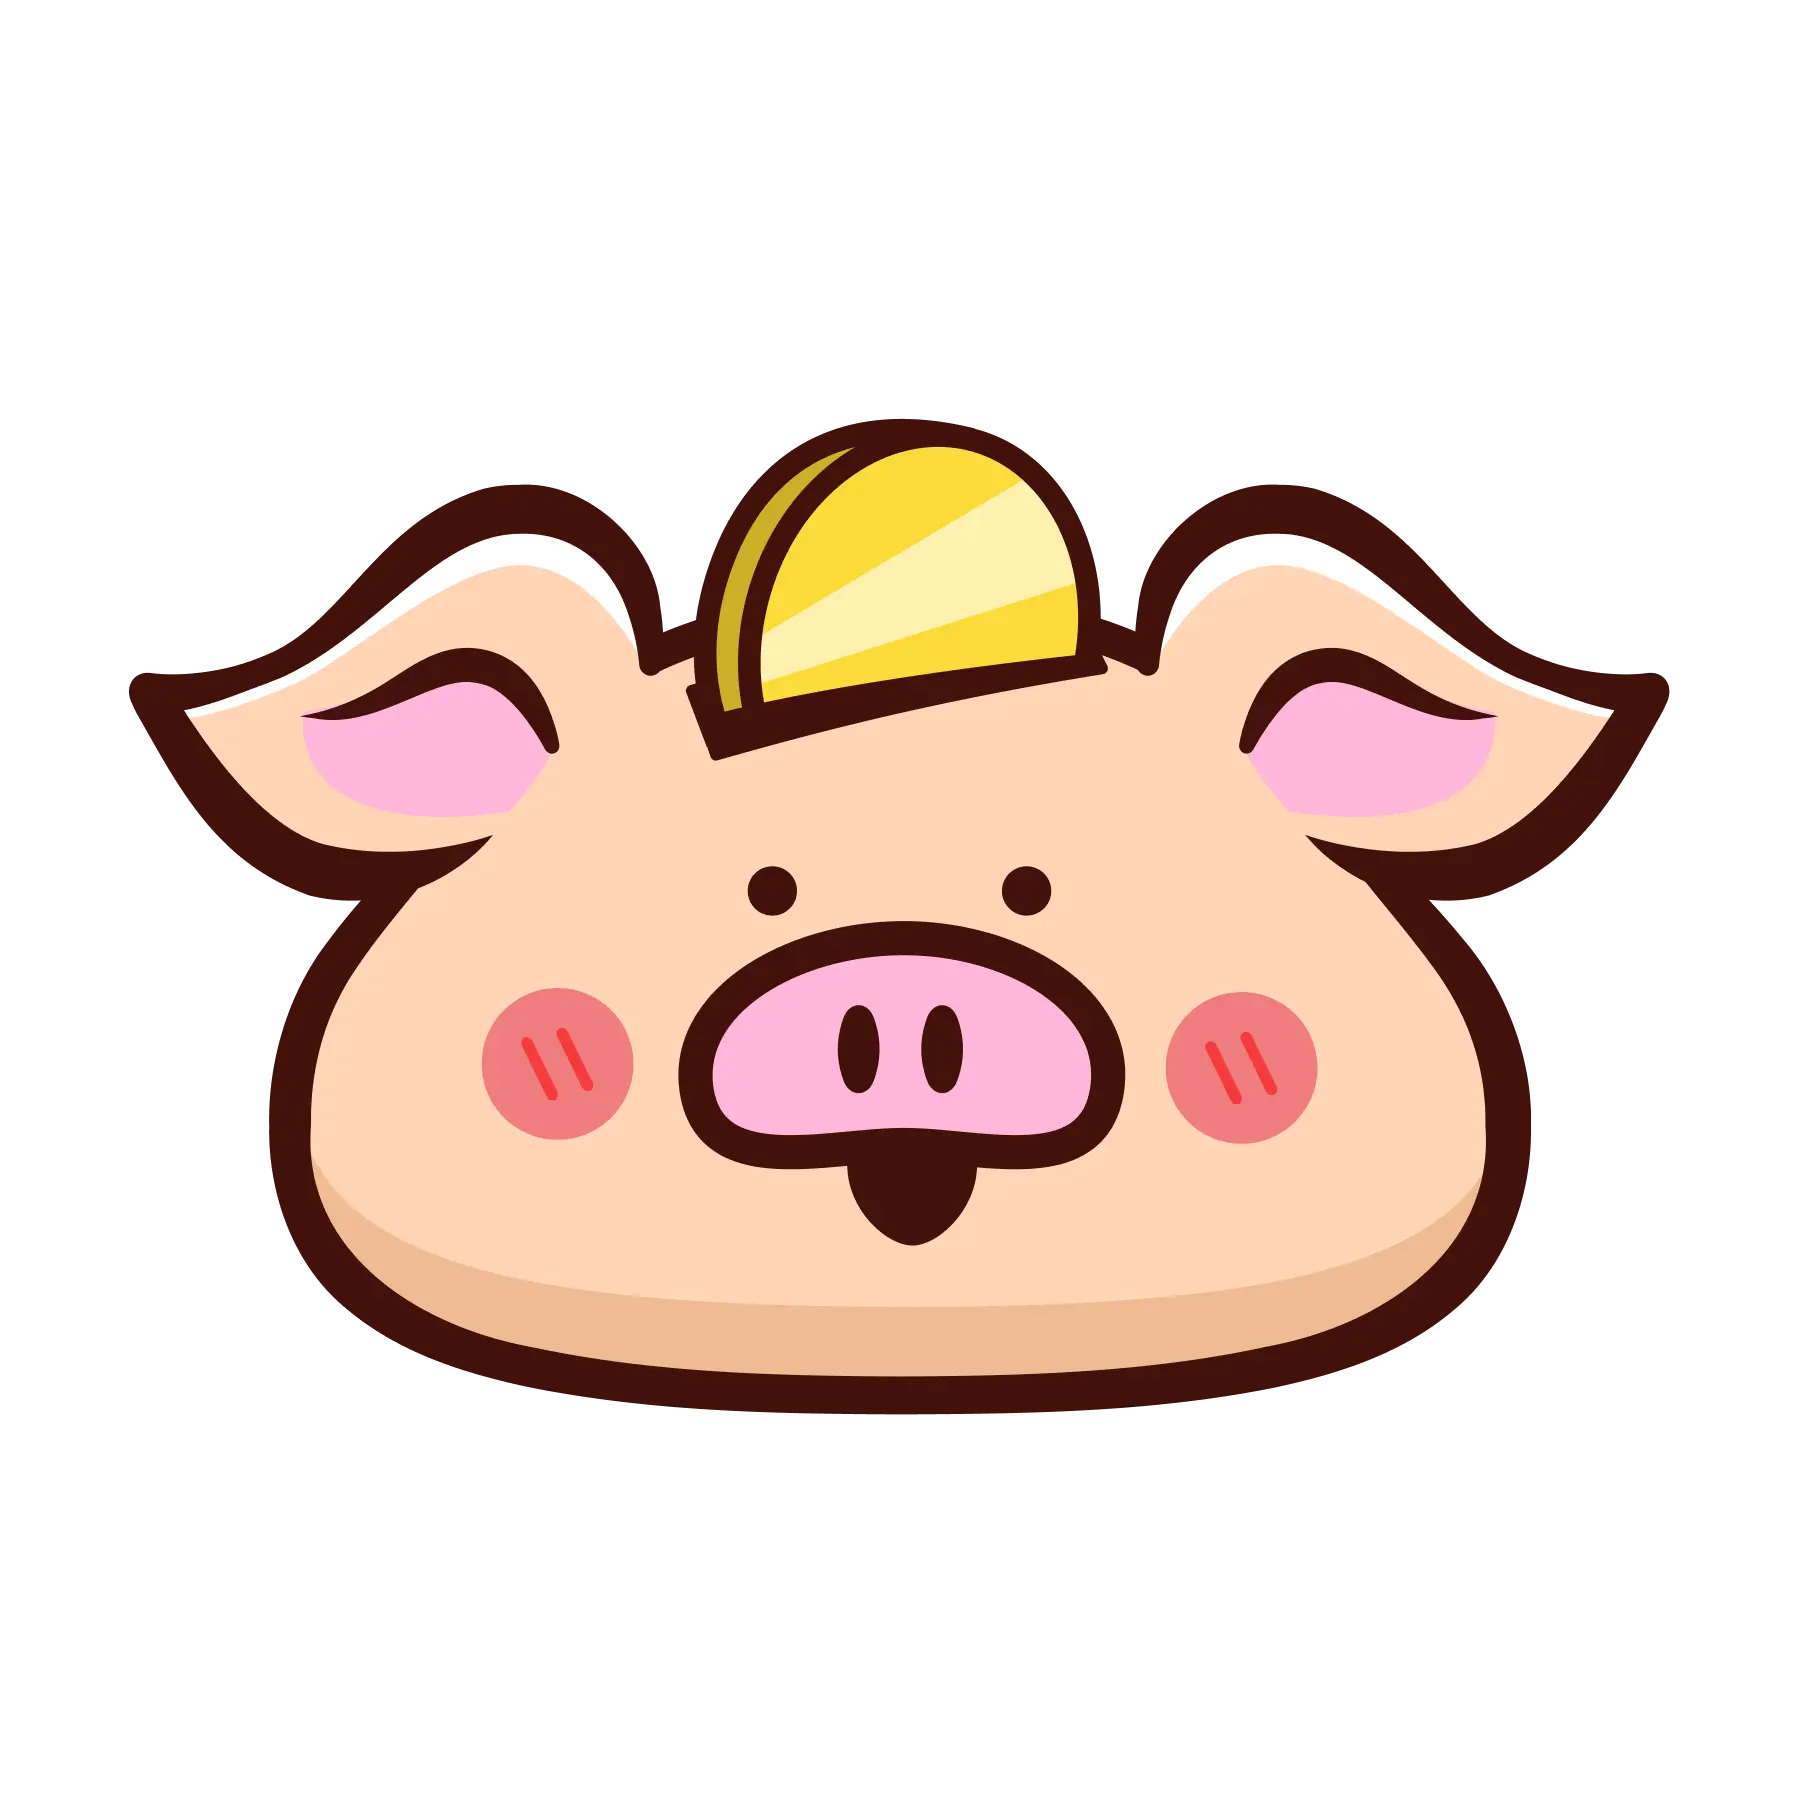
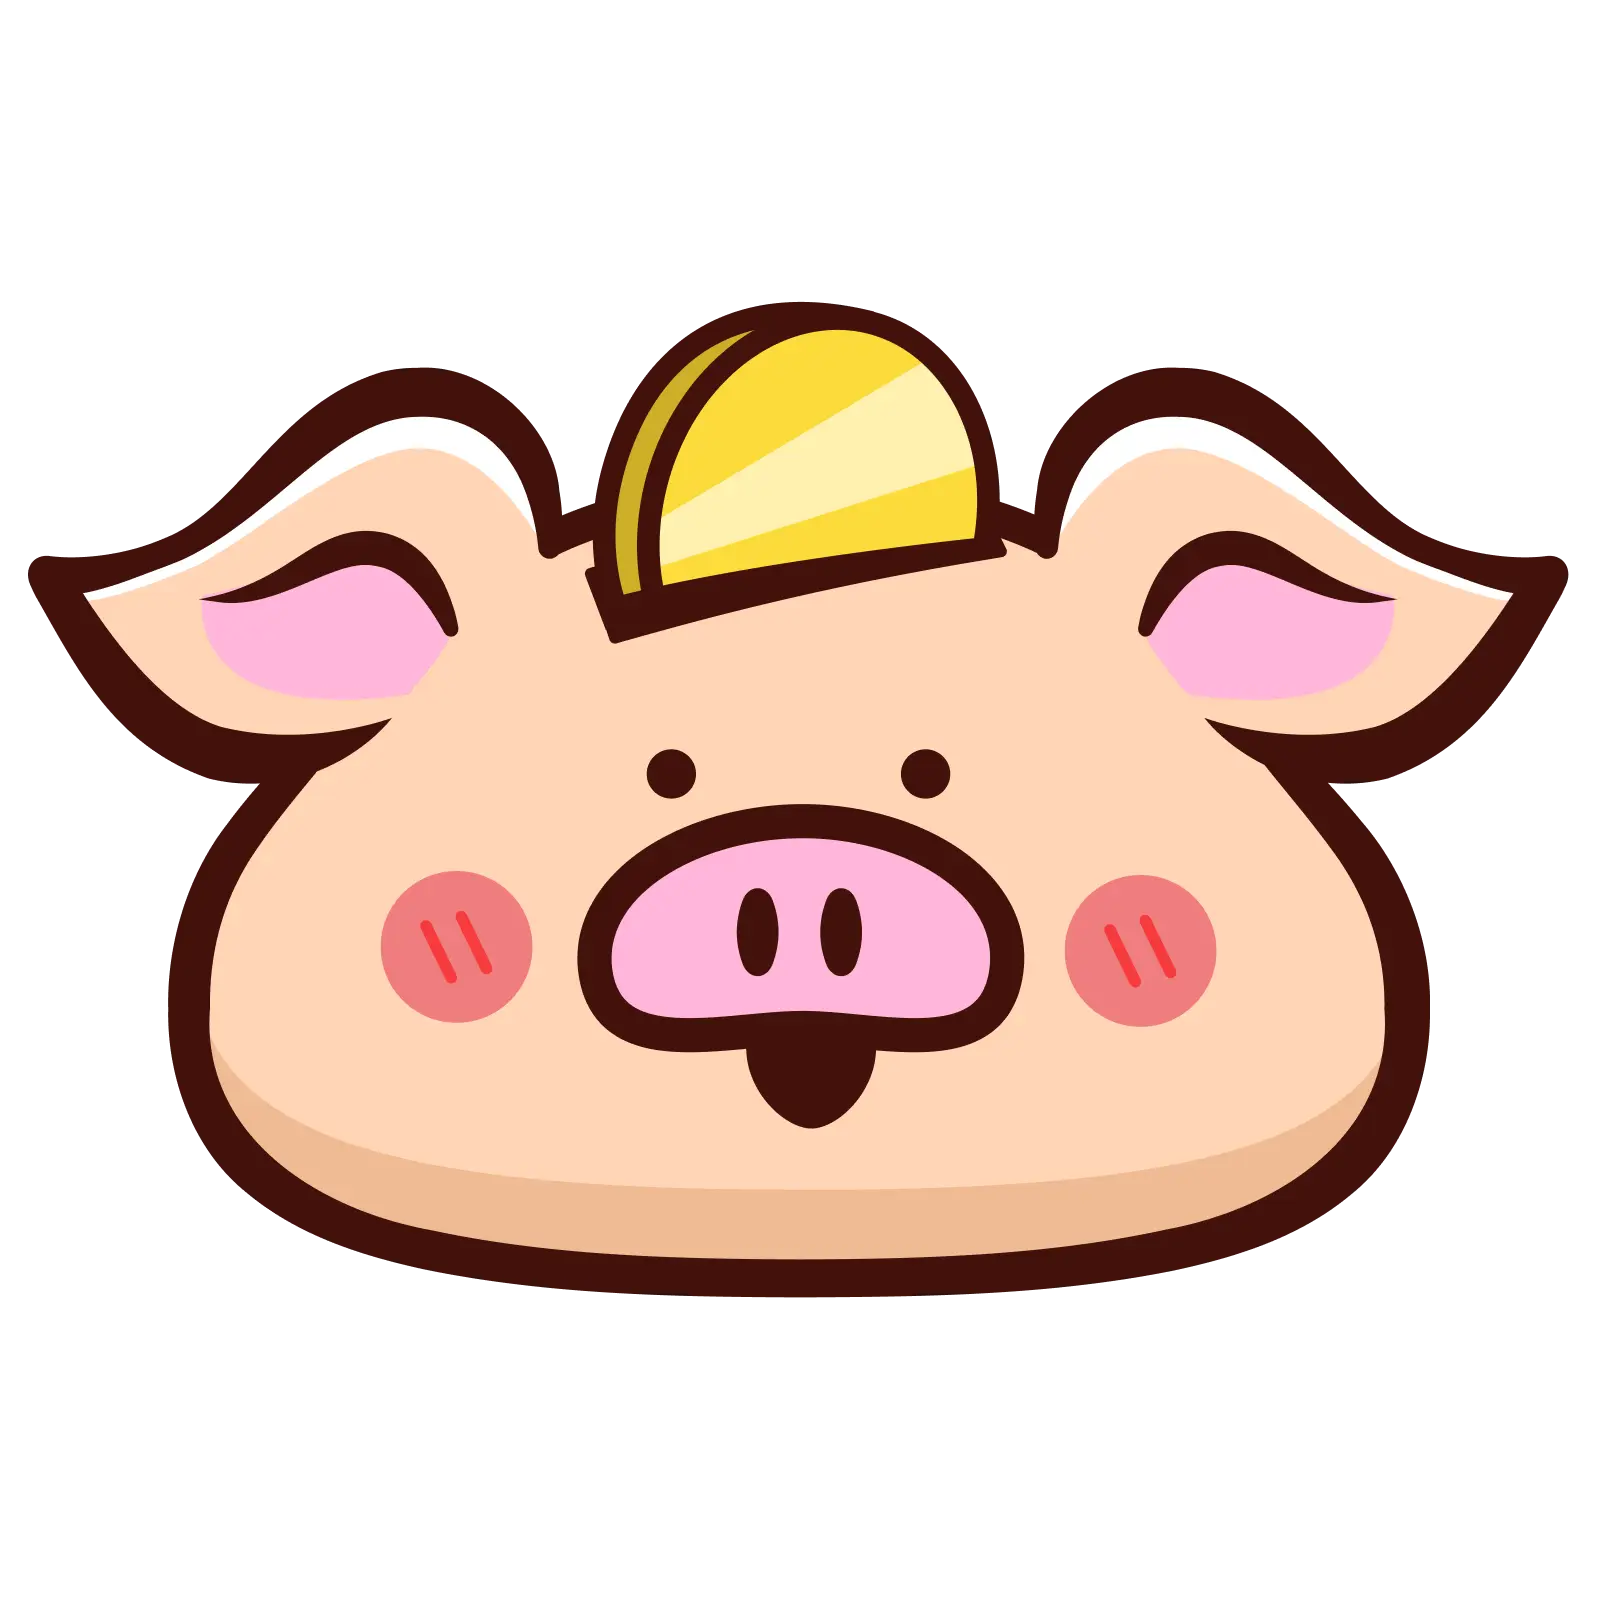
Update English app name

Changed region(s): [[0.0, 0.1875, 1.0, 0.8125]]

diff --git a/src/i18n/ui.ts b/src/i18n/ui.ts
@@ -22,7 +22,7 @@ export const ui = {
     'contact.message': 'お問い合わせ内容',
     'contact.submit': '送信する',
     'footer.rights': 'All rights reserved.',
-    'message.title': '精神論はいらない。仕組みで解決する。',
+    'message.title': '楽しむだけじゃない、助けてもらうアプリへ',
     'message.body.1': '「苦手だけど、やらなきゃいけない」\nそんな日々のプレッシャーに、心当たりはありませんか？',
     'message.body.2': '私自身、主婦であり個人事業主ですが、家事や育児の「面倒なこと」に人一倍ハードルを感じてきました。自分や子供が持つADHDという特性に向き合う中で辿り着いた答えは、努力でカバーするのではなく「アプリに任せる」という選択です。',
     'message.body.3': '大切なのは、教育や習慣化の前に、まず「無理なくできる」環境を作ること。\n面倒を極限まで削ぎ落とした「おかねメモ」をはじめ、「生活の凸凹をなだらかにするアプリ」を一つひとつ形にしていきます。',
@@ -43,9 +43,9 @@ export const ui = {
     'contact.message': 'Message',
     'contact.submit': 'Send',
     'footer.rights': 'All rights reserved.',
-    'message.title': 'No more willpower. Solve it with a system.',
+    'message.title': 'Not just for fun — apps you can rely on.',
     'message.body.1': '"I\'m not good at it, but I have to do it."\nDoes that constant pressure sound familiar?',
     'message.body.2': "As a homemaker and solo entrepreneur, I've struggled with \"tedious chores\" and childcare more than most. Managing both my own and my child's ADHD, I finally realized the answer wasn't more effort—it was choosing to \"let the apps handle it.\"",
-    'message.body.3': "Before focusing on education or habits, it's vital to create an environment where life just \"works\" without the strain.\nStarting with \"MoneyMemo,\" which strips away complexity, I'm building a series of apps designed to smooth out life's rough edges, one by one.",
+    'message.body.3': "Before focusing on education or habits, it's vital to create an environment where life just \"works\" without the strain.\nStarting with \"Money Memo,\" which strips away complexity, I'm building a series of apps designed to smooth out life's rough edges, one by one.",
   },
 } as const;

diff --git a/src/data/apps.ts b/src/data/apps.ts
@@ -34,10 +34,10 @@ export interface AppInfo {
 
 export const apps: AppInfo[] = [
   {
-    id: 'okane-memo',
+    id: 'money-memo',
     name: {
       ja: 'おかねメモ',
-      en: 'MoneyMemo',
+      en: 'Money Memo',
     },
     description: {
       ja: 'ADHDの子でも使いやすい、とってもシンプルなお小遣い帳アプリです。',